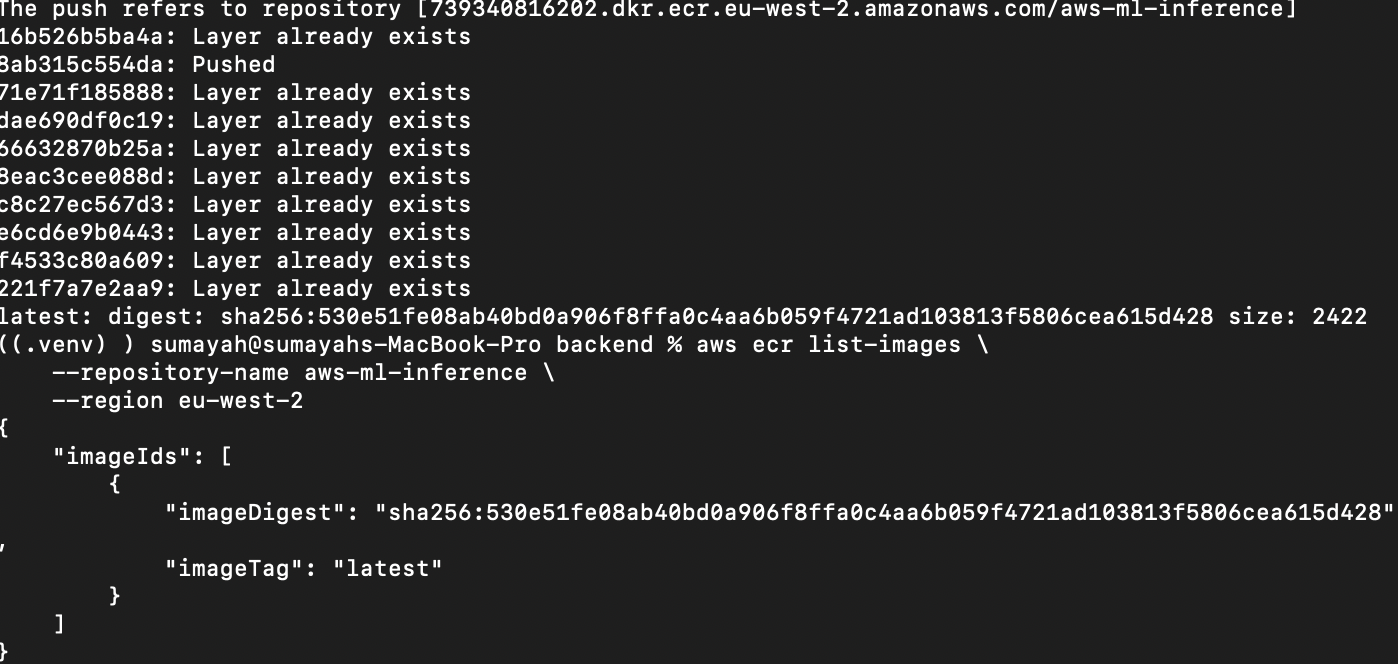
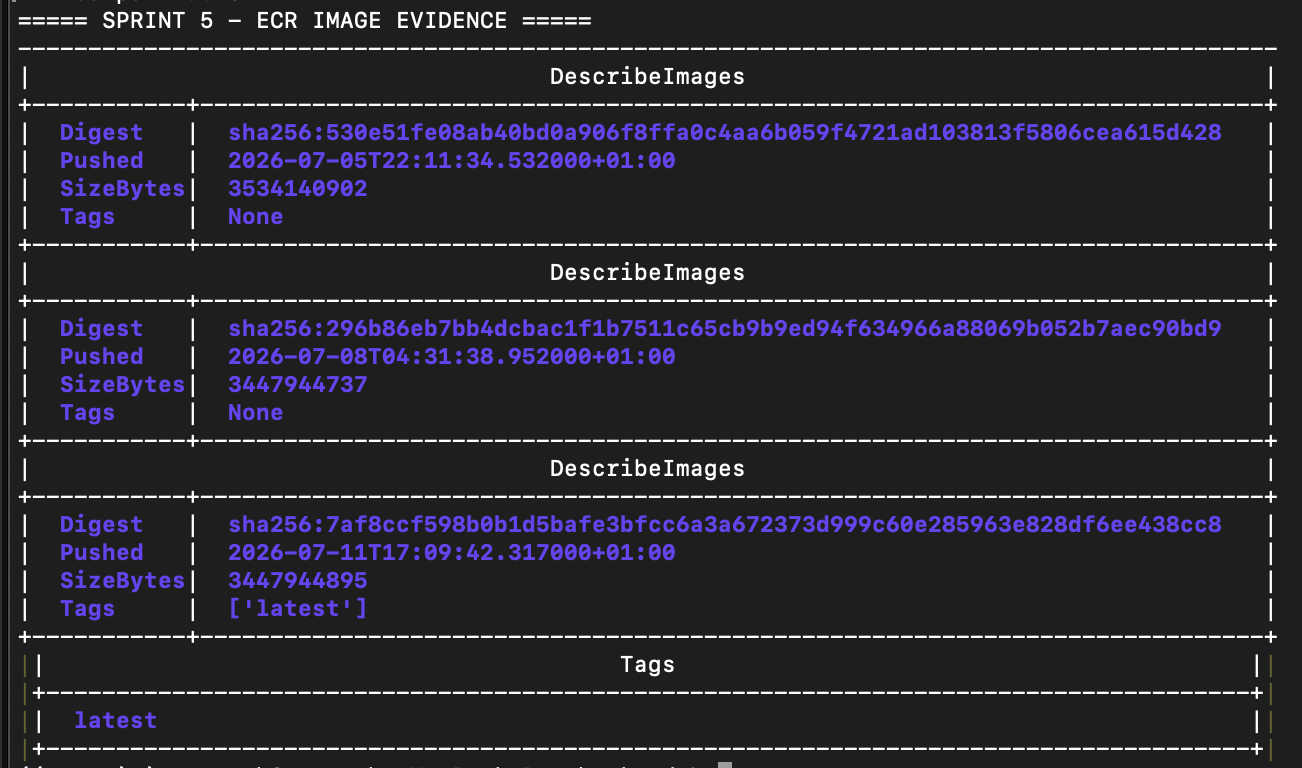
readme update

Changed region(s): [[0.0, 0.0, 1.0, 1.0]]

diff --git a/README.md b/README.md
@@ -275,27 +275,59 @@ The Flask backend was extended with a REST API endpoint that accepts uploaded im
 
 ![Sprint 3 - Object Detection API](docs/screenshots/03-object-detection-api.png)
 
-## Sprint 4 – Docker Containerization
+## Sprint 4 – Containerisation and Runtime Hardening
 
-The backend application was successfully containerized using Docker to provide a consistent and portable runtime environment. After building the Docker image, the container was launched with port mapping enabled and verified using Docker CLI commands. The `/health` endpoint was then accessed through the running container to confirm the application was operating correctly inside the Docker environment.
+The backend API was packaged as a production-ready Docker container using a
+multi-stage build process.
 
-![Sprint 4 - Docker Container Running](docs/screenshots/04-docker-container-running.png)
+The runtime container was hardened by configuring a dedicated non-root
+`appuser`. Required native runtime libraries were installed for OpenCV and
+Ultralytics model dependencies.
 
-## Sprint 5 – Amazon ECR Integration
+### Validation
 
-**Objective:** Configure AWS CLI, create an Amazon Elastic Container Registry (ECR) repository, authenticate Docker with AWS, and publish the application container image.
+The hardened container was built and executed locally.
 
-### Progress Summary
+Validation confirmed:
 
-During this sprint the project was integrated with AWS for container image management. The AWS CLI was configured and authenticated using IAM credentials, an Amazon ECR repository was created, Docker was authenticated against the registry, and the application image was successfully pushed to ECR.
+- Multi-stage Docker build completed successfully.
+- Container remained in a running state.
+- Application process executed as the non-root `appuser`.
+- Docker image was configured with `appuser` as the runtime user.
+- Flask/Gunicorn service was accessible through the mapped container port.
+- `/health` returned `HTTP/1.1 200 OK`.
+- Backend health response reported service status as `ok`.
 
-This completed the transition from a locally built Docker image to a cloud-hosted container image ready for deployment into Amazon ECS.
+![Sprint 4 hardened container validation](docs/screenshots/04-container-hardening.png)
 
-### Screenshot
+**Outcome:** Sprint 4 completed. The backend is containerised, runs as a
+non-root user, and exposes a validated health endpoint.
 
-**File:** `05-ecr-image-pushed.png`
+
+## Sprint 5 – Amazon ECR Container Registry
+
+The production container image was published to Amazon Elastic Container
+Registry (ECR) for cloud-based storage and deployment.
+
+### Validation
+
+AWS CLI validation confirmed that the `aws-ml-inference` ECR repository
+contains uploaded container image artifacts.
+
+The ECR image inventory demonstrates:
+
+- Multiple container image digests stored in ECR.
+- Successful image push timestamps.
+- Container image size metadata.
+- SHA-256 image digest identification.
+- A production image tagged as `latest`.
+- The image is available for downstream Amazon ECS deployment.
 
 ![Sprint 5 - Amazon ECR Push](docs/screenshots/05-ecr-image-pushed.png)
+
+**Outcome:** Sprint 5 completed. The containerised ML backend is stored in
+Amazon ECR and available as a versioned deployment artifact for ECS.
+
 
 # Sprint 6 – Amazon ECS Deployment
 
@@ -366,6 +398,11 @@ The deployed inference API was tested through its ECS endpoint to confirm that t
 **File:** `06-ecs-api-working.png`
 
 ![Sprint 6 - ECS Application Running](docs/screenshots/06-ecs-api-working.png)
+
+
+The following AWS CLI validation confirms that the ECS service is active, the desired task count matches the running task count, and the deployed task references the production Amazon ECR image.
+
+![Sprint 6 ECS deployment validation](docs/screenshots/06-ecs-deployment.png)
 
 # Sprint 7 – Production ML Inference Validation
 
